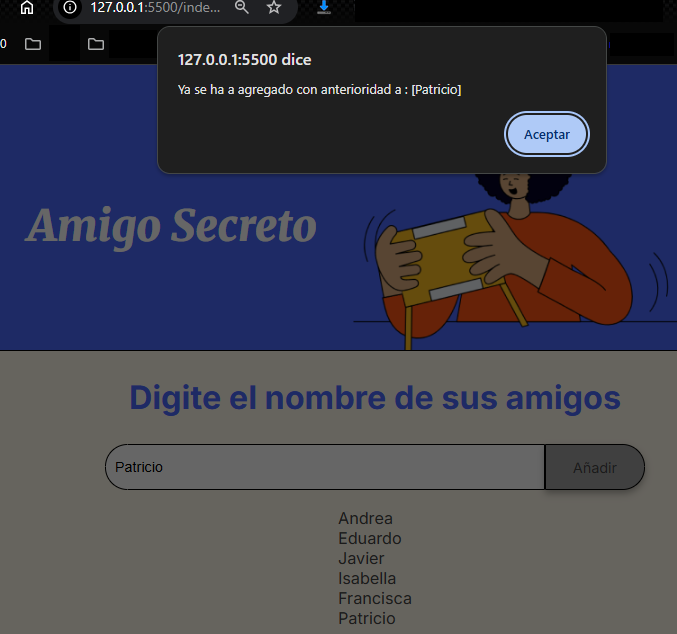
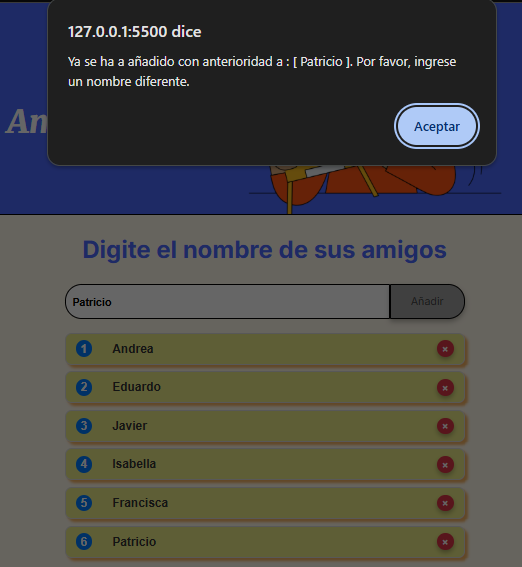
Actualización de .png para README.md y Bold para css de input

diff --git a/app.js b/app.js
@@ -91,6 +91,8 @@ function sortearAmigo(){
         console.log(sorteo);
         // document.querySelector("#resultado").innerHTML = `<li>${amigos[sorteo]}</li>`;
         document.querySelector("#resultado").innerHTML = `<div class="amigo-item">
+                <span class="amigo-nombre">Tu amigo Secreto es:&nbsp;&nbsp;&nbsp;&nbsp;</span>
+                <br>
                 <span class="amigo-numero">${sorteo + 1}</span>
                 <span class="amigo-nombre">${amigos[sorteo]}</span>
                 </div>

diff --git a/style.css b/style.css
@@ -85,6 +85,7 @@ body {
     border: 2px solid #000;
     border-radius: 25px 0 0 25px;
     font-size: 16px;
+    font-weight: bold;
 }
 
 .button-container {
